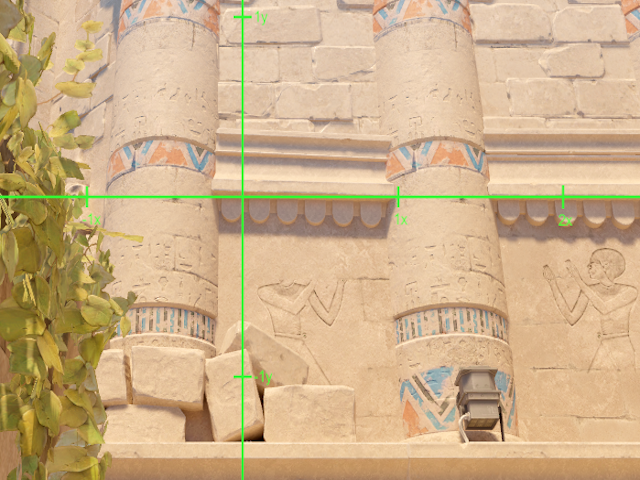
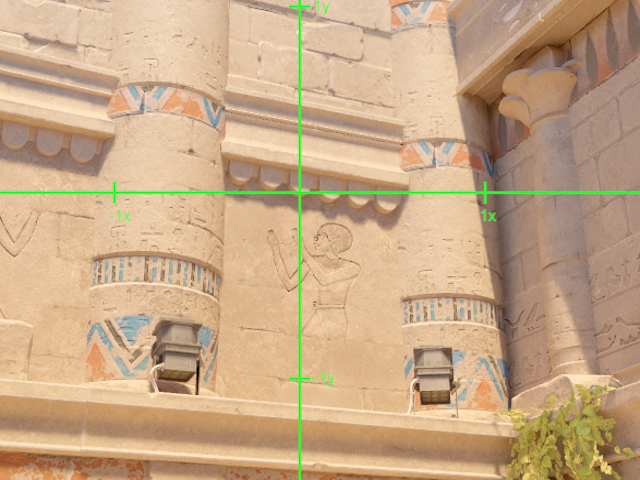
improved molotov lineup

diff --git a/app/src/data/maps/anubis/lineups.ts b/app/src/data/maps/anubis/lineups.ts
@@ -152,7 +152,7 @@ export const anubisLineups = [
       y: 669,
     },
     setPos:
-      "setpos -1267.968018 -313.264038 67.923004;setang -26.452497 89.853821 0.000000",
+      "setpos -1267.968262 -314.071899 67.934906;setang -23.443020 67.653633 0.000000",
   },
   {
     name: "CT long from B outside",
